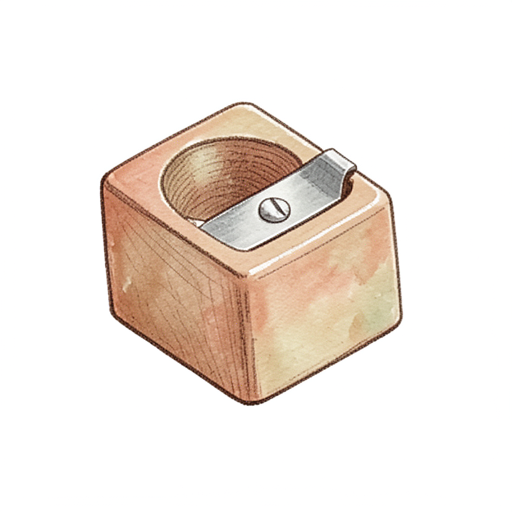
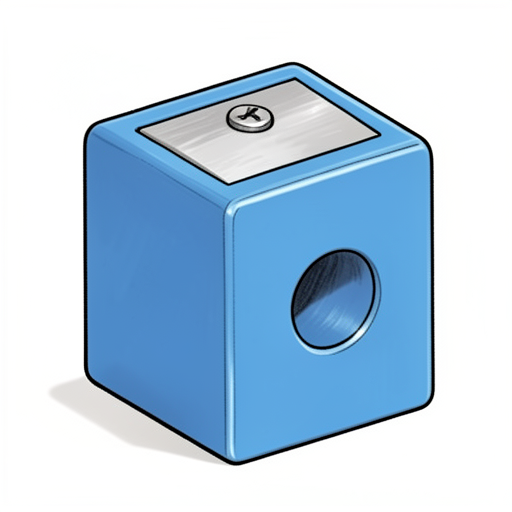
Save generated candidate and queue receipt

diff --git a/data/symbol-white-0.13-arm512/review.html b/data/symbol-white-0.13-arm512/review.html
@@ -1,1 +1,1 @@
-<!doctype html><html lang="sv"><meta charset="utf-8"><title>Bildkandidater</title><style>body{font:16px system-ui;margin:32px;color:#344453;background:white}.cards{display:flex;flex-wrap:wrap;gap:24px}figure{margin:0;width:240px;border:1px solid #ddd;padding:12px}img{width:100%;height:auto}small{color:#666}</style><h1>Bildkandidater</h1><figure><img src="reference.png" alt="Godkänd stilreferens"><figcaption>Stilreferens · se kandidatens metadata för om modellen använder referensbilden som indata.</figcaption></figure><p>Kontrollera handling, händer, borttagning av bakgrund och stil mot referensbilden. Ingen kandidat är publicerad.</p><div class="cards"><figure><img src="FSK_14_65.png" alt="ägg"><figcaption>ägg</figcaption><small>Utkast · granskning krävs</small><details><summary>Före friläggning</summary><img src="raw/FSK_14_65.png" alt="Motivet före bakgrundsborttagning"></details></figure><figure><img src="FSK_15_21.png" alt="fönster"><figcaption>fönster</figcaption><small>Utkast · granskning krävs</small><details><summary>Före friläggning</summary><img src="raw/FSK_15_21.png" alt="Motivet före bakgrundsborttagning"></details></figure><figure><img src="FSK_15_53.png" alt="ost"><figcaption>ost</figcaption><small>Utkast · granskning krävs</small><details><summary>Före friläggning</summary><img src="raw/FSK_15_53.png" alt="Motivet före bakgrundsborttagning"></details></figure><figure><img src="FSK_16_07.png" alt="dörr"><figcaption>dörr</figcaption><small>Utkast · granskning krävs</small><details><summary>Före friläggning</summary><img src="raw/FSK_16_07.png" alt="Motivet före bakgrundsborttagning"></details></figure><figure><img src="FSK_22_65.png" alt="domino"><figcaption>domino</figcaption><small>Utkast · granskning krävs</small><details><summary>Före friläggning</summary><img src="raw/FSK_22_65.png" alt="Motivet före bakgrundsborttagning"></details></figure><figure><img src="FSK_22_72.png" alt="tärning"><figcaption>tärning</figcaption><small>Utkast · granskning krävs</small><details><summary>Före friläggning</summary><img src="raw/FSK_22_72.png" alt="Motivet före bakgrundsborttagning"></details></figure><figure><img src="FSK_24_15.png" alt="såpbubblor"><figcaption>såpbubblor</figcaption><small>Utkast · granskning krävs</small><details><summary>Före friläggning</summary><img src="raw/FSK_24_15.png" alt="Motivet före bakgrundsborttagning"></details></figure><figure><img src="FSK_24_72.png" alt="reflexväst"><figcaption>reflexväst</figcaption><small>Utkast · granskning krävs</small><details><summary>Före friläggning</summary><img src="raw/FSK_24_72.png" alt="Motivet före bakgrundsborttagning"></details></figure><figure><img src="FSK_25_33.png" alt="piprensare"><figcaption>piprensare</figcaption><small>Utkast · granskning krävs</small><details><summary>Före friläggning</summary><img src="raw/FSK_25_33.png" alt="Motivet före bakgrundsborttagning"></details></figure><figure><img src="FSK_27_14.png" alt="buss"><figcaption>buss</figcaption><small>Utkast · granskning krävs</small><details><summary>Före friläggning</summary><img src="raw/FSK_27_14.png" alt="Motivet före bakgrundsborttagning"></details></figure><figure><img src="FSK_27_67.png" alt="flygplan"><figcaption>flygplan</figcaption><small>Utkast · granskning krävs</small><details><summary>Före friläggning</summary><img src="raw/FSK_27_67.png" alt="Motivet före bakgrundsborttagning"></details></figure><figure><img src="FSK_28_68.png" alt="helikopter"><figcaption>helikopter</figcaption><small>Utkast · granskning krävs</small><details><summary>Före friläggning</summary><img src="raw/FSK_28_68.png" alt="Motivet före bakgrundsborttagning"></details></figure><figure><img src="FSK_29_28.png" alt="pennskrin"><figcaption>pennskrin</figcaption><small>Utkast · granskning krävs</small><details><summary>Före friläggning</summary><img src="raw/FSK_29_28.png" alt="Motivet före bakgrundsborttagning"></details></figure><figure><img src="FSK_30_91.png" alt="plåster"><figcaption>plåster</figcaption><small>Utkast · granskning krävs</small><details><summary>Före friläggning</summary><img src="raw/FSK_30_91.png" alt="Motivet före bakgrundsborttagning"></details></figure><figure><img src="FSK_31_58.png" alt="groda"><figcaption>groda</figcaption><small>Utkast · granskning krävs</small><details><summary>Före friläggning</summary><img src="raw/FSK_31_58.png" alt="Motivet före bakgrundsborttagning"></details></figure><figure><img src="FSK_31_88.png" alt="madrass"><figcaption>madrass</figcaption><small>Utkast · granskning krävs</small><details><summary>Före friläggning</summary><img src="raw/FSK_31_88.png" alt="Motivet före bakgrundsborttagning"></details></figure><figure><img src="FSK_32_01.png" alt="väckarklocka"><figcaption>väckarklocka</figcaption><small>Utkast · granskning krävs</small><details><summary>Före friläggning</summary><img src="raw/FSK_32_01.png" alt="Motivet före bakgrundsborttagning"></details></figure><figure><img src="FSK_32_68.png" alt="hopprep"><figcaption>hopprep</figcaption><small>Utkast · granskning krävs</small><details><summary>Före friläggning</summary><img src="raw/FSK_32_68.png" alt="Motivet före bakgrundsborttagning"></details></figure><figure><img src="FSK_90_03.png" alt="samling"><figcaption>samling</figcaption><small>Utkast · granskning krävs</small><details><summary>Före friläggning</summary><img src="raw/FSK_90_03.png" alt="Motivet före bakgrundsborttagning"></details></figure><figure><img src="FSK_90_08.png" alt="lyssna"><figcaption>lyssna</figcaption><small>Utkast · granskning krävs</small><details><summary>Före friläggning</summary><img src="raw/FSK_90_08.png" alt="Motivet före bakgrundsborttagning"></details></figure><figure><img src="FSK_91_05.png" alt="tröja"><figcaption>tröja</figcaption><small>Utkast · granskning krävs</small><details><summary>Före friläggning</summary><img src="raw/FSK_91_05.png" alt="Motivet före bakgrundsborttagning"></details></figure><figure><img src="FSK_91_06.png" alt="strumpor"><figcaption>strumpor</figcaption><small>Utkast · granskning krävs</small><details><summary>Före friläggning</summary><img src="raw/FSK_91_06.png" alt="Motivet före bakgrundsborttagning"></details></figure><figure><img src="FSK_91_08.png" alt="ryggsäck"><figcaption>ryggsäck</figcaption><small>Utkast · granskning krävs</small><details><summary>Före friläggning</summary><img src="raw/FSK_91_08.png" alt="Motivet före bakgrundsborttagning"></details></figure><figure><img src="FSK_91_10.png" alt="halsduk"><figcaption>halsduk</figcaption><small>Utkast · granskning krävs</small><details><summary>Före friläggning</summary><img src="raw/FSK_91_10.png" alt="Motivet före bakgrundsborttagning"></details></figure><figure><img src="FSK_91_26.png" alt="smörgås"><figcaption>smörgås</figcaption><small>Utkast · granskning krävs</small><details><summary>Före friläggning</summary><img src="raw/FSK_91_26.png" alt="Motivet före bakgrundsborttagning"></details></figure><figure><img src="FSK_91_28.png" alt="vatten"><figcaption>vatten</figcaption><small>Utkast · granskning krävs</small><details><summary>Före friläggning</summary><img src="raw/FSK_91_28.png" alt="Motivet före bakgrundsborttagning"></details></figure><figure><img src="FSK_91_68.png" alt="katt"><figcaption>katt</figcaption><small>Utkast · granskning krävs</small><details><summary>Före friläggning</summary><img src="raw/FSK_91_68.png" alt="Motivet före bakgrundsborttagning"></details></figure><figure><img src="FSK_92_05.png" alt="klippa"><figcaption>klippa</figcaption><small>Utkast · granskning krävs</small><details><summary>Före friläggning</summary><img src="raw/FSK_92_05.png" alt="Motivet före bakgrundsborttagning"></details></figure><figure><img src="FSK_92_06.png" alt="sova"><figcaption>sova</figcaption><small>Utkast · granskning krävs</small><details><summary>Före friläggning</summary><img src="raw/FSK_92_06.png" alt="Motivet före bakgrundsborttagning"></details></figure></div></html>
+<!doctype html><html lang="sv"><meta charset="utf-8"><title>Bildkandidater</title><style>body{font:16px system-ui;margin:32px;color:#344453;background:white}.cards{display:flex;flex-wrap:wrap;gap:24px}figure{margin:0;width:240px;border:1px solid #ddd;padding:12px}img{width:100%;height:auto}small{color:#666}</style><h1>Bildkandidater</h1><figure><img src="reference.png" alt="Godkänd stilreferens"><figcaption>Stilreferens · se kandidatens metadata för om modellen använder referensbilden som indata.</figcaption></figure><p>Kontrollera handling, händer, borttagning av bakgrund och stil mot referensbilden. Ingen kandidat är publicerad.</p><div class="cards"><figure><img src="FSK_14_65.png" alt="ägg"><figcaption>ägg</figcaption><small>Utkast · granskning krävs</small><details><summary>Före friläggning</summary><img src="raw/FSK_14_65.png" alt="Motivet före bakgrundsborttagning"></details></figure><figure><img src="FSK_15_21.png" alt="fönster"><figcaption>fönster</figcaption><small>Utkast · granskning krävs</small><details><summary>Före friläggning</summary><img src="raw/FSK_15_21.png" alt="Motivet före bakgrundsborttagning"></details></figure><figure><img src="FSK_15_53.png" alt="ost"><figcaption>ost</figcaption><small>Utkast · granskning krävs</small><details><summary>Före friläggning</summary><img src="raw/FSK_15_53.png" alt="Motivet före bakgrundsborttagning"></details></figure><figure><img src="FSK_16_07.png" alt="dörr"><figcaption>dörr</figcaption><small>Utkast · granskning krävs</small><details><summary>Före friläggning</summary><img src="raw/FSK_16_07.png" alt="Motivet före bakgrundsborttagning"></details></figure><figure><img src="FSK_22_65.png" alt="domino"><figcaption>domino</figcaption><small>Utkast · granskning krävs</small><details><summary>Före friläggning</summary><img src="raw/FSK_22_65.png" alt="Motivet före bakgrundsborttagning"></details></figure><figure><img src="FSK_22_72.png" alt="tärning"><figcaption>tärning</figcaption><small>Utkast · granskning krävs</small><details><summary>Före friläggning</summary><img src="raw/FSK_22_72.png" alt="Motivet före bakgrundsborttagning"></details></figure><figure><img src="FSK_24_15.png" alt="såpbubblor"><figcaption>såpbubblor</figcaption><small>Utkast · granskning krävs</small><details><summary>Före friläggning</summary><img src="raw/FSK_24_15.png" alt="Motivet före bakgrundsborttagning"></details></figure><figure><img src="FSK_24_72.png" alt="reflexväst"><figcaption>reflexväst</figcaption><small>Utkast · granskning krävs</small><details><summary>Före friläggning</summary><img src="raw/FSK_24_72.png" alt="Motivet före bakgrundsborttagning"></details></figure><figure><img src="FSK_25_26.png" alt="pennvässare"><figcaption>pennvässare</figcaption><small>Utkast · granskning krävs</small><details><summary>Före friläggning</summary><img src="raw/FSK_25_26.png" alt="Motivet före bakgrundsborttagning"></details></figure><figure><img src="FSK_25_33.png" alt="piprensare"><figcaption>piprensare</figcaption><small>Utkast · granskning krävs</small><details><summary>Före friläggning</summary><img src="raw/FSK_25_33.png" alt="Motivet före bakgrundsborttagning"></details></figure><figure><img src="FSK_27_14.png" alt="buss"><figcaption>buss</figcaption><small>Utkast · granskning krävs</small><details><summary>Före friläggning</summary><img src="raw/FSK_27_14.png" alt="Motivet före bakgrundsborttagning"></details></figure><figure><img src="FSK_27_67.png" alt="flygplan"><figcaption>flygplan</figcaption><small>Utkast · granskning krävs</small><details><summary>Före friläggning</summary><img src="raw/FSK_27_67.png" alt="Motivet före bakgrundsborttagning"></details></figure><figure><img src="FSK_28_68.png" alt="helikopter"><figcaption>helikopter</figcaption><small>Utkast · granskning krävs</small><details><summary>Före friläggning</summary><img src="raw/FSK_28_68.png" alt="Motivet före bakgrundsborttagning"></details></figure><figure><img src="FSK_29_28.png" alt="pennskrin"><figcaption>pennskrin</figcaption><small>Utkast · granskning krävs</small><details><summary>Före friläggning</summary><img src="raw/FSK_29_28.png" alt="Motivet före bakgrundsborttagning"></details></figure><figure><img src="FSK_30_91.png" alt="plåster"><figcaption>plåster</figcaption><small>Utkast · granskning krävs</small><details><summary>Före friläggning</summary><img src="raw/FSK_30_91.png" alt="Motivet före bakgrundsborttagning"></details></figure><figure><img src="FSK_31_58.png" alt="groda"><figcaption>groda</figcaption><small>Utkast · granskning krävs</small><details><summary>Före friläggning</summary><img src="raw/FSK_31_58.png" alt="Motivet före bakgrundsborttagning"></details></figure><figure><img src="FSK_31_88.png" alt="madrass"><figcaption>madrass</figcaption><small>Utkast · granskning krävs</small><details><summary>Före friläggning</summary><img src="raw/FSK_31_88.png" alt="Motivet före bakgrundsborttagning"></details></figure><figure><img src="FSK_32_01.png" alt="väckarklocka"><figcaption>väckarklocka</figcaption><small>Utkast · granskning krävs</small><details><summary>Före friläggning</summary><img src="raw/FSK_32_01.png" alt="Motivet före bakgrundsborttagning"></details></figure><figure><img src="FSK_32_68.png" alt="hopprep"><figcaption>hopprep</figcaption><small>Utkast · granskning krävs</small><details><summary>Före friläggning</summary><img src="raw/FSK_32_68.png" alt="Motivet före bakgrundsborttagning"></details></figure><figure><img src="FSK_90_03.png" alt="samling"><figcaption>samling</figcaption><small>Utkast · granskning krävs</small><details><summary>Före friläggning</summary><img src="raw/FSK_90_03.png" alt="Motivet före bakgrundsborttagning"></details></figure><figure><img src="FSK_90_08.png" alt="lyssna"><figcaption>lyssna</figcaption><small>Utkast · granskning krävs</small><details><summary>Före friläggning</summary><img src="raw/FSK_90_08.png" alt="Motivet före bakgrundsborttagning"></details></figure><figure><img src="FSK_91_05.png" alt="tröja"><figcaption>tröja</figcaption><small>Utkast · granskning krävs</small><details><summary>Före friläggning</summary><img src="raw/FSK_91_05.png" alt="Motivet före bakgrundsborttagning"></details></figure><figure><img src="FSK_91_06.png" alt="strumpor"><figcaption>strumpor</figcaption><small>Utkast · granskning krävs</small><details><summary>Före friläggning</summary><img src="raw/FSK_91_06.png" alt="Motivet före bakgrundsborttagning"></details></figure><figure><img src="FSK_91_08.png" alt="ryggsäck"><figcaption>ryggsäck</figcaption><small>Utkast · granskning krävs</small><details><summary>Före friläggning</summary><img src="raw/FSK_91_08.png" alt="Motivet före bakgrundsborttagning"></details></figure><figure><img src="FSK_91_10.png" alt="halsduk"><figcaption>halsduk</figcaption><small>Utkast · granskning krävs</small><details><summary>Före friläggning</summary><img src="raw/FSK_91_10.png" alt="Motivet före bakgrundsborttagning"></details></figure><figure><img src="FSK_91_26.png" alt="smörgås"><figcaption>smörgås</figcaption><small>Utkast · granskning krävs</small><details><summary>Före friläggning</summary><img src="raw/FSK_91_26.png" alt="Motivet före bakgrundsborttagning"></details></figure><figure><img src="FSK_91_28.png" alt="vatten"><figcaption>vatten</figcaption><small>Utkast · granskning krävs</small><details><summary>Före friläggning</summary><img src="raw/FSK_91_28.png" alt="Motivet före bakgrundsborttagning"></details></figure><figure><img src="FSK_91_68.png" alt="katt"><figcaption>katt</figcaption><small>Utkast · granskning krävs</small><details><summary>Före friläggning</summary><img src="raw/FSK_91_68.png" alt="Motivet före bakgrundsborttagning"></details></figure><figure><img src="FSK_92_05.png" alt="klippa"><figcaption>klippa</figcaption><small>Utkast · granskning krävs</small><details><summary>Före friläggning</summary><img src="raw/FSK_92_05.png" alt="Motivet före bakgrundsborttagning"></details></figure><figure><img src="FSK_92_06.png" alt="sova"><figcaption>sova</figcaption><small>Utkast · granskning krävs</small><details><summary>Före friläggning</summary><img src="raw/FSK_92_06.png" alt="Motivet före bakgrundsborttagning"></details></figure></div></html>
